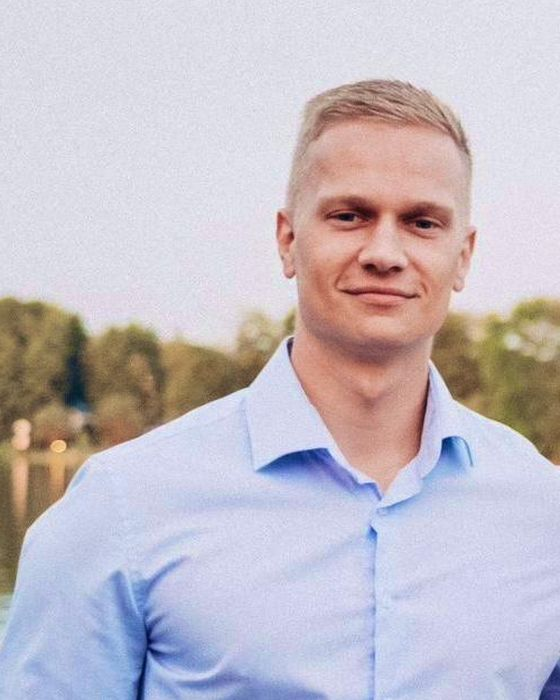
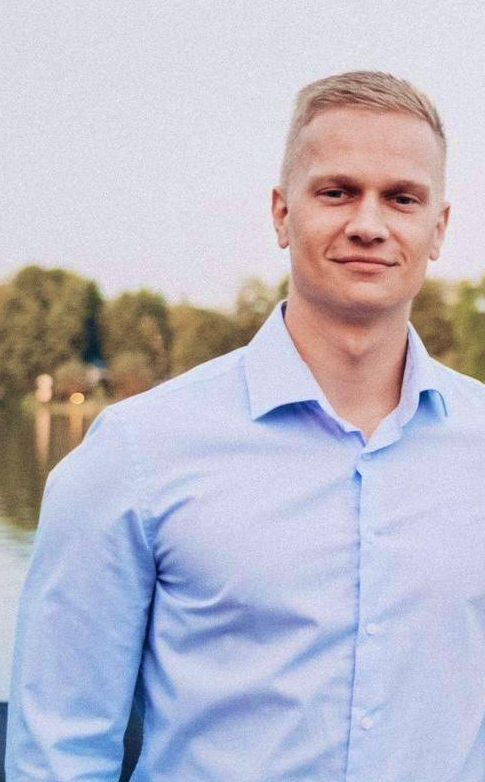
Add files via upload

diff --git a/datenschutz.html b/datenschutz.html
@@ -4,7 +4,7 @@
 <meta charset="utf-8">
 <meta name="viewport" content="width=device-width, initial-scale=1, viewport-fit=cover">
 <title>Datenschutzerklärung – ZVP Immobilien</title>
-<meta name="description" content="Datenschutzerklärung der ZVP Immobilien eGbR: Hosting, Cloudflare, Kontaktformular und Ihre Rechte.">
+<meta name="description" content="Datenschutzerklärung der ZVP Immobilien eGbR: Hosting über GitHub Pages, Cloudflare, Kontaktformular und Ihre Rechte.">
 <meta name="robots" content="noindex, follow">
 <link rel="canonical" href="https://zvp-immo.de/datenschutz.html">
 <meta name="theme-color" content="#13203a">
@@ -53,13 +53,13 @@
     <div class="wrap">
       <article class="legal-card">
 
-        <h2><span class="no">01</span>Allgemeine Hinweise</h2>
-        <p>Der Schutz Ihrer personenbezogenen Daten hat für uns einen hohen Stellenwert. Wir verarbeiten personenbezogene Daten ausschließlich im Einklang mit den geltenden Datenschutzvorschriften, insbesondere der Datenschutz-Grundverordnung (DSGVO), dem Bundesdatenschutzgesetz (BDSG) und dem Telekommunikation-Digitale-Dienste-Datenschutz-Gesetz (TDDDG).</p>
-        <p>Personenbezogene Daten sind alle Daten, mit denen Sie persönlich identifiziert werden können. Die folgenden Hinweise erläutern, welche Daten wir erheben, zu welchen Zwecken dies geschieht und auf welcher Rechtsgrundlage die Verarbeitung erfolgt.</p>
-        <p>Diese Website ist als statische Website umgesetzt. Wir selbst setzen keine Cookies, keine Analyse- oder Tracking-Werkzeuge und keine Social-Media-Plugins ein, binden keine externen Schriftarten, Karten oder Videos ein und betreiben keine eigene Datenbank.</p>
+        <h2><span class="no">01</span>Allgemeine Hinweise und Pflichtinformationen</h2>
+        <p>Der Schutz Ihrer personenbezogenen Daten hat für uns einen hohen Stellenwert. Wir verarbeiten personenbezogene Daten ausschließlich im Einklang mit den einschlägigen Bestimmungen, insbesondere der Datenschutz-Grundverordnung (DSGVO), dem Bundesdatenschutzgesetz (BDSG) und dem Telekommunikation-Digitale-Dienste-Datenschutz-Gesetz (TDDDG).</p>
+        <p>Personenbezogene Daten sind alle Daten, mit denen Sie persönlich identifiziert werden können. Die nachfolgenden Hinweise erläutern, welche Daten wir erheben, zu welchen Zwecken dies geschieht und auf welcher Rechtsgrundlage die Verarbeitung erfolgt. Sie gelten für unsere Website <a href="https://zvp-immo.de/">zvp-immo.de</a> einschließlich aller Unterseiten.</p>
+        <p>Diese Website ist als statische Website ausgestaltet. Wir selbst setzen keine Cookies, keine Analyse- oder Tracking-Tools und keine Social-Media-Plugins ein, binden keine externen Schriftarten, Karten oder Videos ein und betreiben keine serverseitigen Datenbanken.</p>
 
-        <h2><span class="no">02</span>Verantwortlicher</h2>
-        <p>Verantwortlich für die Datenverarbeitung auf dieser Website ist:<br>
+        <h2><span class="no">02</span>Verantwortlicher im Sinne der DSGVO</h2>
+        <p>Verantwortlich für die Datenverarbeitung ist:<br>
         <strong>ZVP Immobilien eGbR</strong><br>
         vertreten durch die Gesellschafter André Zlobinski und David von Przybylski<br>
         Klaistower Str. 64<br>14542 Werder (Havel)<br>
@@ -68,48 +68,50 @@
         <p>Einen Datenschutzbeauftragten haben wir nicht benannt, da hierzu keine gesetzliche Pflicht besteht.</p>
 
         <h2><span class="no">03</span>Hosting über GitHub Pages</h2>
-        <p>Diese Website wird über GitHub Pages bereitgestellt, einen Dienst der GitHub, Inc., 88 Colin P. Kelly Jr. Street, San Francisco, CA 94107, USA. Beim Aufruf der Website verarbeitet GitHub automatisch Informationen, die Ihr Browser übermittelt, in sogenannten Server-Logfiles, insbesondere:</p>
+        <p>Diese Website wird über GitHub Pages bereitgestellt, einen Dienst der GitHub, Inc., 88 Colin P. Kelly Jr. Street, San Francisco, CA 94107, USA. Beim Aufruf werden aus technischen Gründen automatisch Server-Logfiles verarbeitet, u. a.:</p>
         <ul>
           <li>IP-Adresse des anfragenden Endgeräts</li>
           <li>Datum und Uhrzeit des Zugriffs</li>
-          <li>aufgerufene Seite bzw. Datei</li>
+          <li>aufgerufene Seiten bzw. Dateien</li>
           <li>Browsertyp, Browserversion und Betriebssystem</li>
           <li>Referrer-URL (zuvor besuchte Seite)</li>
         </ul>
         <p>Die Verarbeitung ist erforderlich, um die Website auszuliefern sowie ihre Sicherheit und Stabilität zu gewährleisten. Rechtsgrundlage ist Art. 6 Abs. 1 lit. f DSGVO; unser berechtigtes Interesse liegt in einer sicheren und zuverlässigen Bereitstellung unseres Webangebots.</p>
-        <p>Dabei ist eine Übermittlung von Daten in die USA möglich. Sie stützt sich auf den Angemessenheitsbeschluss der EU-Kommission zum EU-U.S. Data Privacy Framework (Art. 45 DSGVO), soweit der Anbieter danach zertifiziert ist, und ergänzend auf Standardvertragsklauseln (Art. 46 Abs. 2 lit. c DSGVO). Weitere Informationen finden Sie in der <a href="https://docs.github.com/de/site-policy/privacy-policies/github-general-privacy-statement" target="_blank" rel="noopener noreferrer">Datenschutzerklärung von GitHub</a>.</p>
+        <p>Eine Übermittlung von Daten in die USA ist dabei möglich. Sie stützt sich auf den Angemessenheitsbeschluss der EU-Kommission zum EU-U.S. Data Privacy Framework (Art. 45 DSGVO), soweit der Anbieter danach zertifiziert ist, und ergänzend auf Standardvertragsklauseln (Art. 46 Abs. 2 lit. c DSGVO). Weitere Informationen finden Sie in der <a href="https://docs.github.com/de/site-policy/privacy-policies/github-general-privacy-statement" target="_blank" rel="noopener noreferrer">Datenschutzerklärung von GitHub</a>.</p>
 
-        <h2><span class="no">04</span>Cloudflare</h2>
-        <p>Wir nutzen Dienste der Cloudflare, Inc., 101 Townsend St., San Francisco, CA 94107, USA. Cloudflare verwaltet unsere Domain (DNS), liefert die Website über ein weltweites Netz von Rechenzentren aus (Content Delivery Network), schützt sie vor Angriffen und betreibt die Serverfunktion, die Nachrichten aus unserem Kontaktformular entgegennimmt (Cloudflare Workers, siehe Ziffer 05).</p>
+        <h2><span class="no">04</span>Einsatz von Cloudflare</h2>
+        <p>Zur Absicherung der Website und zur Optimierung der Ladezeiten nutzen wir Dienste der Cloudflare, Inc., 101 Townsend St., San Francisco, CA 94107, USA. Cloudflare verwaltet unsere Domain (DNS), liefert die Website über ein weltweites Netz von Rechenzentren aus (Content Delivery Network), stellt das SSL-/TLS-Zertifikat für die verschlüsselte Verbindung bereit, schützt die Website vor Angriffen und Überlastung und betreibt die Serverfunktion, die Nachrichten aus unserem Kontaktformular entgegennimmt (Cloudflare Workers, siehe Ziffer 06).</p>
         <p>Alle Aufrufe dieser Website laufen daher über Server von Cloudflare. Dabei werden insbesondere Ihre IP-Adresse, Datum und Uhrzeit, die aufgerufene Adresse sowie technische Angaben zu Browser und Betriebssystem verarbeitet. Die Verarbeitung erfolgt in der Regel im nächstgelegenen Rechenzentrum, bei Aufrufen aus Deutschland üblicherweise innerhalb der EU. Zur Abwehr von Angriffen kann Cloudflare technisch notwendige Cookies setzen; Rechtsgrundlage hierfür ist § 25 Abs. 2 Nr. 2 TDDDG.</p>
-        <p>Rechtsgrundlage der Verarbeitung ist Art. 6 Abs. 1 lit. f DSGVO; unser berechtigtes Interesse liegt in einer sicheren, schnellen und ausfallsicheren Bereitstellung der Website. Mit Cloudflare besteht ein Vertrag zur Auftragsverarbeitung (Art. 28 DSGVO). Für eine mögliche Übermittlung in die USA gelten die unter Ziffer 03 genannten Garantien (EU-U.S. Data Privacy Framework, ergänzend Standardvertragsklauseln). Weitere Informationen finden Sie in der <a href="https://www.cloudflare.com/de-de/privacypolicy/" target="_blank" rel="noopener noreferrer">Datenschutzerklärung von Cloudflare</a>.</p>
+        <p>Rechtsgrundlage der Verarbeitung ist Art. 6 Abs. 1 lit. f DSGVO; unser berechtigtes Interesse liegt in einer sicheren, schnellen und ausfallsicheren Bereitstellung der Website. Mit Cloudflare besteht ein Vertrag zur Auftragsverarbeitung (Art. 28 DSGVO). Für eine Drittlandübermittlung in die USA gelten die unter Ziffer 03 genannten Garantien (EU-U.S. Data Privacy Framework, ergänzend Standardvertragsklauseln). Weitere Informationen finden Sie in der <a href="https://www.cloudflare.com/de-de/privacypolicy/" target="_blank" rel="noopener noreferrer">Datenschutzerklärung von Cloudflare</a>.</p>
 
-        <h2 id="kontaktformular"><span class="no">05</span>Kontaktformular</h2>
-        <p>Wenn Sie uns über das Kontaktformular eine Anfrage senden, verarbeiten wir die von Ihnen eingegebenen Angaben: Ihre Rolle (Eigentümer, Makler oder Sonstiges), Ihren Namen und Ihre E-Mail-Adresse (Pflichtangaben) sowie – freiwillig – Telefonnummer, Ort des Objekts, Anzahl der Wohneinheiten, Kaufpreisvorstellung und Ihre Nachricht. Technisch bedingt werden außerdem Ihre IP-Adresse und der Zeitpunkt der Übermittlung verarbeitet.</p>
-        <h3>Ablauf der Übermittlung</h3>
-        <p>Ihre Eingaben werden verschlüsselt (TLS) an eine Serverfunktion bei Cloudflare übertragen (siehe Ziffer 04). Dort werden sie auf Vollständigkeit und Missbrauch geprüft und unmittelbar als E-Mail an unser Postfach weitergeleitet. Eine Speicherung in einer Datenbank findet nicht statt.</p>
-        <p>Für den E-Mail-Versand nutzen wir den Dienst Brevo der Brevo GmbH, Köpenicker Str. 126, 10179 Berlin, einer Gesellschaft der französischen Brevo-Gruppe. Brevo verarbeitet die Daten in unserem Auftrag auf Servern in der Europäischen Union (Frankreich und Belgien); mit Brevo besteht ein Vertrag zur Auftragsverarbeitung (Art. 28 DSGVO). Brevo speichert Versandprotokolle für einen begrenzten Zeitraum, um die Zustellung nachweisen zu können. Soweit Brevo Unterauftragnehmer mit Sitz außerhalb der EU einsetzt, sind diese über das EU-U.S. Data Privacy Framework bzw. Standardvertragsklauseln abgesichert. Weitere Informationen finden Sie in der <a href="https://www.brevo.com/de/legal/privacypolicy/" target="_blank" rel="noopener noreferrer">Datenschutzerklärung von Brevo</a>.</p>
-        <h3>Schutz vor Spam</h3>
-        <p>Das Formular enthält ein für Menschen nicht sichtbares Feld sowie eine Zeitprüfung, um automatisierte Einsendungen zu erkennen. Dafür werden weder Cookies gesetzt noch Dienste Dritter eingebunden.</p>
-        <h3>Zweck und Rechtsgrundlagen</h3>
-        <p>Wir verwenden Ihre Angaben ausschließlich, um Ihre Anfrage zu bearbeiten und mit Ihnen in Kontakt zu treten.</p>
+        <h2><span class="no">05</span>Datenverarbeitung bei Kontaktaufnahme</h2>
+        <p>Wenn Sie per E-Mail, telefonisch oder über unser Kontaktformular Kontakt mit uns aufnehmen, werden die übermittelten Daten (z. B. Name, E-Mail-Adresse, Telefonnummer, Inhalt der Anfrage) verarbeitet.</p>
+        <h3>Zweck der Verarbeitung</h3>
+        <p>Bearbeitung Ihrer Anfrage sowie gegebenenfalls Durchführung vorvertraglicher Maßnahmen oder Erfüllung eines Vertrags, etwa beim Ankauf einer Immobilie.</p>
+        <h3>Rechtsgrundlagen</h3>
         <ul>
-          <li>Art. 6 Abs. 1 lit. b DSGVO, soweit Ihre Anfrage auf den Abschluss eines Vertrags gerichtet ist, etwa den Ankauf einer Immobilie</li>
-          <li>Art. 6 Abs. 1 lit. f DSGVO in allen übrigen Fällen; unser berechtigtes Interesse liegt in der Beantwortung von Anfragen</li>
+          <li>Art. 6 Abs. 1 lit. b DSGVO bei Vertragsanbahnung oder -erfüllung</li>
+          <li>Art. 6 Abs. 1 lit. f DSGVO (berechtigtes Interesse an einer effizienten Kommunikation und der Beantwortung von Anfragen) in allen übrigen Fällen</li>
         </ul>
         <h3>Speicherdauer</h3>
-        <p>Ihre Anfrage verbleibt in unserem E-Mail-Postfach, bis sie abschließend bearbeitet ist und der Zweck der Speicherung entfällt, sofern keine gesetzlichen Aufbewahrungspflichten – etwa nach Handels- oder Steuerrecht – entgegenstehen. Eine Weitergabe an Dritte erfolgt nicht ohne Ihre Einwilligung, es sei denn, wir sind gesetzlich dazu verpflichtet.</p>
+        <p>Die Daten werden gelöscht, sobald der Zweck der Verarbeitung entfällt, sofern keine gesetzlichen Aufbewahrungsfristen – etwa nach Handels- oder Steuerrecht – entgegenstehen. Eine Weitergabe an Dritte erfolgt nicht ohne Ihre ausdrückliche Einwilligung, es sei denn, wir sind gesetzlich dazu verpflichtet. Die in dieser Erklärung genannten Dienstleister verarbeiten Daten ausschließlich in unserem Auftrag und nach unseren Weisungen.</p>
 
-        <h2><span class="no">06</span>Kontakt per E-Mail oder Telefon</h2>
-        <p>Wenn Sie uns per E-Mail oder telefonisch kontaktieren, verarbeiten wir die übermittelten Daten (z. B. Name, E-Mail-Adresse, Telefonnummer und Inhalt der Anfrage), um Ihr Anliegen zu bearbeiten. Zweck, Rechtsgrundlagen und Speicherdauer entsprechen den Angaben unter Ziffer 05.</p>
+        <h2 id="kontaktformular"><span class="no">06</span>Kontaktformular</h2>
+        <p>Über das Kontaktformular verarbeiten wir die von Ihnen eingegebenen Angaben: Ihre Rolle (Eigentümer, Makler oder Sonstiges), Ihren Namen und Ihre E-Mail-Adresse (Pflichtangaben) sowie – freiwillig – Telefonnummer, Ort des Objekts, Anzahl der Wohneinheiten, Kaufpreisvorstellung und Ihre Nachricht. Technisch bedingt werden außerdem Ihre IP-Adresse und der Zeitpunkt der Übermittlung verarbeitet. Zweck, Rechtsgrundlagen und Speicherdauer richten sich nach Ziffer 05.</p>
+        <h3>Ablauf der Übermittlung</h3>
+        <p>Ihre Eingaben werden verschlüsselt (TLS) an eine Serverfunktion bei Cloudflare übertragen (siehe Ziffer 04). Dort werden sie auf Vollständigkeit und Missbrauch geprüft und unmittelbar als E-Mail an unser Postfach weitergeleitet. Eine Speicherung in einer Datenbank findet nicht statt.</p>
+        <h3>E-Mail-Versand über Brevo</h3>
+        <p>Für den Versand der E-Mail nutzen wir den Dienst Brevo der Brevo GmbH, Köpenicker Str. 126, 10179 Berlin, einer Gesellschaft der französischen Brevo-Gruppe. Brevo verarbeitet die Daten in unserem Auftrag auf Servern in der Europäischen Union (Frankreich und Belgien); mit Brevo besteht ein Vertrag zur Auftragsverarbeitung (Art. 28 DSGVO). Brevo speichert Versandprotokolle für einen begrenzten Zeitraum, um die Zustellung nachweisen zu können. Soweit Brevo Unterauftragnehmer mit Sitz außerhalb der EU einsetzt, sind diese über das EU-U.S. Data Privacy Framework bzw. Standardvertragsklauseln abgesichert. Weitere Informationen finden Sie in der <a href="https://www.brevo.com/de/legal/privacypolicy/" target="_blank" rel="noopener noreferrer">Datenschutzerklärung von Brevo</a>.</p>
+        <h3>Schutz vor Spam</h3>
+        <p>Das Formular enthält ein für Menschen nicht sichtbares Feld sowie eine Zeitprüfung, um automatisierte Einsendungen zu erkennen. Dafür werden weder Cookies gesetzt noch Dienste Dritter eingebunden.</p>
 
         <h2><span class="no">07</span>Schriftarten</h2>
-        <p>Diese Website verwendet die Schriftarten „Manrope“ und „Newsreader“. Sie sind lokal auf unserem Webserver eingebunden. Beim Aufruf der Website wird keine Verbindung zu Servern von Google oder anderen Schriftanbietern hergestellt.</p>
+        <p>Diese Website verwendet die Schriftarten „Manrope“ und „Newsreader“. Sie sind lokal auf unserem Webserver eingebunden. Es findet keine Verbindung zu Google oder anderen externen Font-Anbietern statt.</p>
 
-        <h2><span class="no">08</span>SSL- bzw. TLS-Verschlüsselung</h2>
-        <p>Diese Website nutzt aus Sicherheitsgründen eine SSL- bzw. TLS-Verschlüsselung. Eine verschlüsselte Verbindung erkennen Sie an „https://“ und dem Schloss-Symbol in der Adresszeile Ihres Browsers. Daten, die Sie an uns übermitteln, etwa über das Kontaktformular, können so nicht von Dritten mitgelesen werden.</p>
+        <h2><span class="no">08</span>SSL-/TLS-Verschlüsselung</h2>
+        <p>Diese Website nutzt aus Sicherheitsgründen eine SSL- bzw. TLS-Verschlüsselung, erkennbar an „https://“ und dem Schloss-Symbol in der Adresszeile Ihres Browsers. Unverschlüsselte Aufrufe werden automatisch auf die verschlüsselte Verbindung umgeleitet. Daten, die Sie an uns übermitteln, etwa über das Kontaktformular, können so nicht von Dritten mitgelesen werden.</p>
 
-        <h2><span class="no">09</span>Ihre Rechte</h2>
+        <h2><span class="no">09</span>Rechte der betroffenen Personen</h2>
         <p>Sie haben im Rahmen der gesetzlichen Bestimmungen jederzeit das Recht auf:</p>
         <ul>
           <li>Auskunft über die zu Ihrer Person gespeicherten Daten (Art. 15 DSGVO)</li>
@@ -117,20 +119,21 @@
           <li>Löschung (Art. 17 DSGVO)</li>
           <li>Einschränkung der Verarbeitung (Art. 18 DSGVO)</li>
           <li>Datenübertragbarkeit (Art. 20 DSGVO)</li>
+          <li>Widerspruch gegen die Verarbeitung (Art. 21 DSGVO)</li>
         </ul>
         <h3>Widerspruchsrecht</h3>
-        <p>Soweit wir Daten auf Grundlage von Art. 6 Abs. 1 lit. f DSGVO verarbeiten, können Sie aus Gründen, die sich aus Ihrer besonderen Situation ergeben, jederzeit Widerspruch gegen diese Verarbeitung einlegen (Art. 21 DSGVO).</p>
-        <p>Zur Ausübung Ihrer Rechte genügt eine formlose Mitteilung an die unter Ziffer 02 genannten Kontaktdaten.</p>
+        <p>Soweit wir Daten auf Grundlage von Art. 6 Abs. 1 lit. f DSGVO verarbeiten, können Sie aus Gründen, die sich aus Ihrer besonderen Situation ergeben, jederzeit Widerspruch gegen diese Verarbeitung einlegen.</p>
+        <p>Zur Ausübung Ihrer Rechte genügt eine formlose Mitteilung an die unter Ziffer 02 genannte Kontaktadresse.</p>
 
-        <h2><span class="no">10</span>Beschwerderecht bei einer Aufsichtsbehörde</h2>
-        <p>Sie haben das Recht, sich bei einer Datenschutzaufsichtsbehörde zu beschweren, insbesondere im Mitgliedstaat Ihres gewöhnlichen Aufenthalts, Ihres Arbeitsplatzes oder des Orts des mutmaßlichen Verstoßes (Art. 77 DSGVO). Für uns zuständig ist:</p>
+        <h2><span class="no">10</span>Beschwerderecht</h2>
+        <p>Ihnen steht das Recht zu, sich bei einer Datenschutzaufsichtsbehörde zu beschweren, insbesondere im Mitgliedstaat Ihres gewöhnlichen Aufenthalts, Ihres Arbeitsplatzes oder des Orts des mutmaßlichen Verstoßes (Art. 77 DSGVO). Für uns zuständig ist:</p>
         <p>Die Landesbeauftragte für den Datenschutz und für das Recht auf Akteneinsicht Brandenburg<br>Stahnsdorfer Damm 77<br>14532 Kleinmachnow<br><a href="https://www.lda.brandenburg.de/" target="_blank" rel="noopener noreferrer">www.lda.brandenburg.de</a></p>
 
         <h2><span class="no">11</span>Pflicht zur Bereitstellung von Daten</h2>
-        <p>Die Bereitstellung personenbezogener Daten ist weder gesetzlich noch vertraglich vorgeschrieben. Ohne Namen und E-Mail-Adresse können wir eine Anfrage über das Kontaktformular jedoch nicht bearbeiten.</p>
+        <p>Die Bereitstellung personenbezogener Daten ist weder gesetzlich noch vertraglich vorgeschrieben. Ohne bestimmte Angaben – im Kontaktformular Name und E-Mail-Adresse – kann eine Bearbeitung Ihrer Anfrage jedoch nicht erfolgen.</p>
 
         <h2><span class="no">12</span>Aktualität und Änderung</h2>
-        <p>Wir behalten uns vor, diese Datenschutzerklärung anzupassen, wenn sich die Rechtslage oder unser Angebot ändert. Es gilt die jeweils hier veröffentlichte Fassung.</p>
+        <p>Wir behalten uns vor, diese Datenschutzerklärung an geänderte Rechtslagen oder Änderungen unseres Angebots anzupassen. Es gilt die jeweils hier veröffentlichte Fassung.</p>
         <p class="stand">Stand: Oktober 2026</p>
 
       </article>

diff --git a/impressum.html b/impressum.html
@@ -54,42 +54,46 @@
       <article class="legal-card">
 
         <h2>Angaben gemäß § 5 DDG</h2>
-        <p><strong>ZVP Immobilien eGbR</strong><br>Klaistower Str. 64<br>14542 Werder (Havel)</p>
+        <p><strong>ZVP Immobilien eGbR</strong><br>eingetragene Gesellschaft bürgerlichen Rechts<br>Klaistower Str. 64<br>14542 Werder (Havel)</p>
 
-        <h2>Vertreten durch</h2>
-        <p>Die Gesellschafter André Zlobinski und David von Przybylski</p>
+        <h2>Vertreten durch die Gesellschafter</h2>
+        <p>André Zlobinski<br>David von Przybylski</p>
 
         <h2>Kontakt</h2>
-        <p>André Zlobinski: <a href="tel:+4915734639430">0157 34639430</a><br>
-        David von Przybylski: <a href="tel:+4917632724201">0176 32724201</a><br>
-        E-Mail: <a href="mailto:ankauf@zvp-immo.de">ankauf@zvp-immo.de</a></p>
+        <p>Telefon: <a href="tel:+4915734639430">0157 34639430</a> (André Zlobinski)<br>
+        Telefon: <a href="tel:+4917632724201">0176 32724201</a> (David von Przybylski)<br>
+        E-Mail: <a href="mailto:ankauf@zvp-immo.de">ankauf@zvp-immo.de</a><br>
+        Website: <a href="https://zvp-immo.de/">zvp-immo.de</a></p>
 
         <h2>Registereintrag</h2>
-        <!-- PFLICHTANGABE: Registergericht und Registernummer laut Eintragung im Gesellschaftsregister ergänzen und die Markierung (span class="todo") entfernen. -->
-        <p>Eingetragen im Gesellschaftsregister<br>
+        <!-- PFLICHTANGABE vor Veröffentlichung: Registergericht und Registernummer laut Eintragung im Gesellschaftsregister eintragen und die Markierung (span class="todo") entfernen. -->
+        <p>Eintragung im Gesellschaftsregister<br>
         Registergericht: Amtsgericht <span class="todo">[Ort ergänzen]</span><br>
         Registernummer: <span class="todo">GsR [Nummer ergänzen]</span></p>
 
-        <!-- Nur angeben, falls vorhanden – dann die Kommentarzeichen entfernen:
+        <!-- Nur angeben, falls vorhanden (§ 5 Abs. 1 Nr. 6 DDG) – dann die Kommentarzeichen entfernen und Nummer eintragen:
         <h2>Umsatzsteuer-ID</h2>
         <p>Umsatzsteuer-Identifikationsnummer gemäß § 27a Umsatzsteuergesetz:<br><strong>DE …</strong></p>
-        <h2>Wirtschafts-Identifikationsnummer</h2>
+        <h2>Wirtschafts-ID</h2>
         <p>Wirtschafts-Identifikationsnummer gemäß § 139c Abgabenordnung:<br><strong>DE …</strong></p>
         -->
 
-        <h2>Verantwortlich für den Inhalt nach § 18 Abs. 2 MStV</h2>
-        <p>André Zlobinski und David von Przybylski<br>Klaistower Str. 64, 14542 Werder (Havel)</p>
+        <h2>Redaktionell verantwortlich</h2>
+        <p>Verantwortlich für den Inhalt nach § 18 Abs. 2 MStV:<br>André Zlobinski und David von Przybylski<br>Klaistower Str. 64<br>14542 Werder (Havel)</p>
 
         <h2>Verbraucherstreitbeilegung</h2>
         <p>Wir sind nicht bereit und nicht verpflichtet, an Streitbeilegungsverfahren vor einer Verbraucherschlichtungsstelle teilzunehmen.</p>
 
+        <h2>Bereitstellung und Sicherheit</h2>
+        <p>Diese Website (zvp-immo.de) wird über GitHub Pages bereitgestellt und über das Netzwerk von Cloudflare ausgeliefert. Die Verbindung ist durchgehend per SSL/TLS verschlüsselt; Cloudflare schützt die Website zusätzlich vor Angriffen und Überlastung. Welche Daten dabei verarbeitet werden, erläutern wir in unserer <a href="datenschutz.html">Datenschutzerklärung</a>.</p>
+
         <h2>Haftung und Urheberrecht</h2>
         <h3>Haftung für Inhalte</h3>
-        <p>Die Inhalte dieser Website wurden mit größter Sorgfalt erstellt. Für die Richtigkeit, Vollständigkeit und Aktualität der Inhalte können wir jedoch keine Gewähr übernehmen. Als Diensteanbieter sind wir gemäß § 7 Abs. 1 DDG für eigene Inhalte nach den allgemeinen Gesetzen verantwortlich. Nach §§ 8 bis 10 DDG sind wir jedoch nicht verpflichtet, übermittelte oder gespeicherte fremde Informationen zu überwachen. Verpflichtungen zur Entfernung oder Sperrung der Nutzung von Informationen nach den allgemeinen Gesetzen bleiben hiervon unberührt. Sobald uns eine konkrete Rechtsverletzung bekannt wird, entfernen wir die betreffenden Inhalte umgehend.</p>
+        <p>Die Inhalte dieser Website wurden mit größter Sorgfalt erstellt. Für die Richtigkeit, Vollständigkeit und Aktualität der Inhalte können wir jedoch keine Gewähr übernehmen. Als Diensteanbieter sind wir gemäß § 7 Abs. 1 DDG für eigene Inhalte nach den allgemeinen Gesetzen verantwortlich. Nach §§ 8 bis 10 DDG sind wir jedoch nicht verpflichtet, übermittelte oder gespeicherte fremde Informationen zu überwachen. Verpflichtungen zur Entfernung oder Sperrung der Nutzung von Informationen nach den allgemeinen Gesetzen bleiben hiervon unberührt. Bei Bekanntwerden entsprechender Rechtsverletzungen entfernen wir diese Inhalte umgehend.</p>
         <h3>Haftung für Links</h3>
-        <p>Unsere Website enthält Links zu externen Websites Dritter, auf deren Inhalte wir keinen Einfluss haben. Für diese fremden Inhalte übernehmen wir keine Gewähr; verantwortlich ist stets der jeweilige Anbieter oder Betreiber der Seiten. Sobald uns Rechtsverletzungen bekannt werden, entfernen wir derartige Links umgehend.</p>
+        <p>Unsere Website enthält Links zu externen Websites Dritter, auf deren Inhalte wir keinen Einfluss haben. Für diese fremden Inhalte können wir keine Gewähr übernehmen; verantwortlich ist stets der jeweilige Anbieter oder Betreiber der Seiten. Bei Bekanntwerden von Rechtsverletzungen entfernen wir derartige Links umgehend.</p>
         <h3>Urheberrecht</h3>
-        <p>Die Inhalte und Werke auf dieser Website, insbesondere Texte, Fotos und Grafiken, unterliegen dem deutschen Urheberrecht. Vervielfältigung, Bearbeitung, Verbreitung und jede Art der Verwertung außerhalb der Grenzen des Urheberrechts bedürfen der schriftlichen Zustimmung der ZVP Immobilien eGbR. Unser Ankaufsprofil (PDF) dürfen Sie gern unverändert an Eigentümer und Makler weitergeben.</p>
+        <p>Die durch uns erstellten Inhalte und Werke auf dieser Website, insbesondere Texte, Fotos und Grafiken, unterliegen dem deutschen Urheberrecht. Vervielfältigung, Bearbeitung, Verbreitung und jede Art der Verwertung außerhalb der Grenzen des Urheberrechts bedürfen der schriftlichen Zustimmung der ZVP Immobilien eGbR. Downloads und Kopien dieser Seite sind nur für den privaten, nicht kommerziellen Gebrauch gestattet. Ausgenommen ist unser Ankaufsprofil (PDF): Es darf unverändert an Eigentümer und Makler weitergegeben werden.</p>
 
       </article>
     </div>

diff --git a/assets/css/style.css b/assets/css/style.css
@@ -178,6 +178,7 @@ figcaption.cap{margin-top:12px;font-size:13.5px;color:var(--muted)}
 .person{display:grid;grid-template-columns:minmax(0,.82fr) minmax(0,1fr);background:var(--surface);border:1px solid var(--line)}
 .person figure{position:relative;margin:0;min-height:340px;background:var(--line)}
 .person img{position:absolute;inset:0;width:100%;height:100%;object-fit:cover;object-position:50% 25%}
+.person img.pos-top{object-position:50% 12%}
 .person-body{display:flex;flex-direction:column;padding:34px 32px 30px}
 .person h3{font-size:27px}
 .role{margin:6px 0 18px;font-size:14.5px;font-weight:600;color:var(--brass-text)}

diff --git a/index.html b/index.html
@@ -211,7 +211,7 @@
       </div>
       <div class="people">
         <article class="person">
-          <figure><img src="assets/img/andre.jpg" width="560" height="700" alt="Porträt André Zlobinski" loading="lazy" decoding="async"></figure>
+          <figure><img class="pos-top" src="assets/img/andre.jpg" width="485" height="782" alt="Porträt André Zlobinski" loading="lazy" decoding="async"></figure>
           <div class="person-body">
             <h3>André Zlobinski</h3>
             <p class="role">Akquise &amp; Finanzierung</p>
